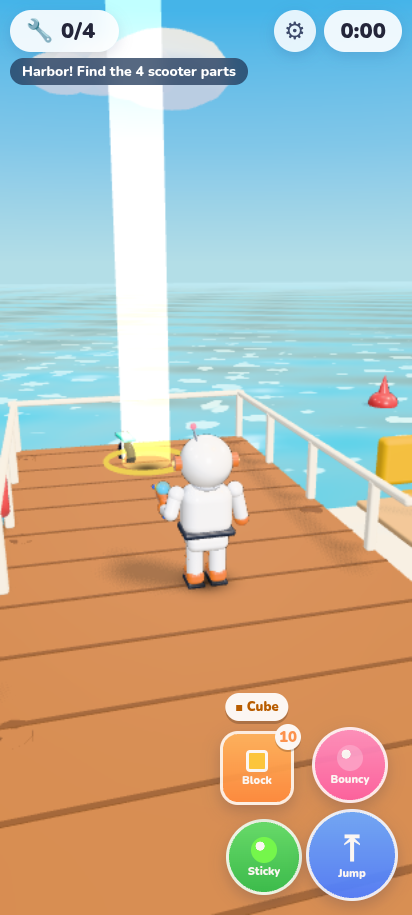
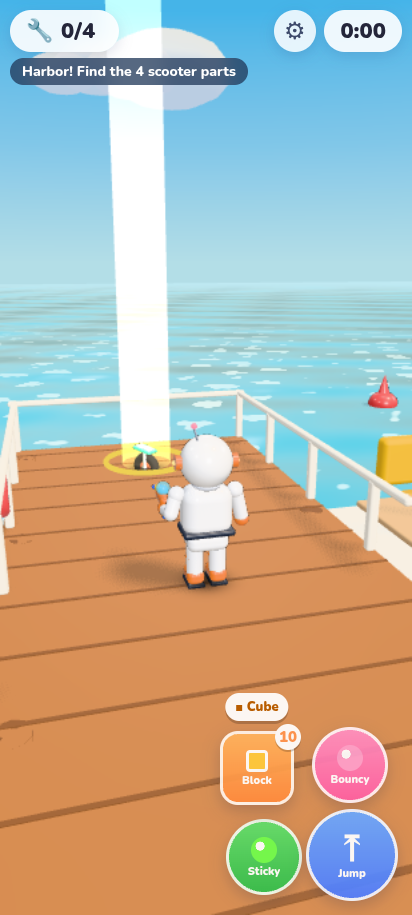
Fix race-ramp launch and L2 causeway hidden under harbor sea; tower camera blockers; round13 e2e with eight r13 shots

diff --git a/src/render/view.ts b/src/render/view.ts
@@ -123,6 +123,8 @@ export class GameView {
   private tmpE = new THREE.Euler();
   /** red bandanas worn by race hooligans (created on first use) */
   private bandanas = new Map<number, THREE.Object3D>();
+  /** harbor-area sea: it reaches over the start of the coastal causeway, so the race's own sea replaces it */
+  private harborSea: THREE.Mesh | null = null;
   /** race stars: one spinning InstancedMesh for the whole course */
   private stars: THREE.InstancedMesh | null = null;
   private starList: Star[] = [];
@@ -174,6 +176,7 @@ export class GameView {
     if (state.world.theme === 'harbor') {
       const harbor = buildHarbor(state.world);
       this.scene.add(harbor.root);
+      this.harborSea = harbor.water;
       blockers = harbor.cameraBlockers;
     } else {
       const city = buildCity(state.world);
@@ -192,7 +195,14 @@ export class GameView {
       this.spray = city.root.getObjectByName('spray');
       this.windowGlow = buildWindowGlow();
       this.scene.add(this.windowGlow);
-      blockers = city.cameraBlockers;
+      // Tower facade above the glass lobby and the mid floor's ceiling: keep the camera inside on the flashlight floor.
+      const T = 3.5, top = TOWER.roof, x0 = TOWER.x - 4.05, x1 = TOWER.x + 4.05, z0 = TOWER.z - 4.05, z1 = TOWER.z + 4.05;
+      blockers = [...city.cameraBlockers,
+        { minX: x0 - 0.1, maxX: x0 + 0.1, minY: T, maxY: top, minZ: z0, maxZ: z1 },
+        { minX: x1 - 0.1, maxX: x1 + 0.1, minY: T, maxY: top, minZ: z0, maxZ: z1 },
+        { minX: x0, maxX: x1, minY: T, maxY: top, minZ: z0 - 0.1, maxZ: z0 + 0.1 },
+        { minX: x0, maxX: x1, minY: T, maxY: top, minZ: z1 - 0.1, maxZ: z1 + 0.1 },
+        { minX: x0, maxX: x1, minY: TOWER.mid + 1.88, maxY: TOWER.mid + 2.2, minZ: z0, maxZ: z1 }];
     }
     this.scene.updateMatrixWorld(true);
     this.col = new Collider([...state.world.solids, ...blockers]);
@@ -224,7 +234,9 @@ export class GameView {
       const holder = new THREE.Group();
       const model = buildPart(pk.vehicle, pk.part);
       const spinner = new THREE.Group();
-      model.position.y = -0.5;
+      // parts are modelled in vehicle space: spin each one about its own centre
+      const centre = new THREE.Box3().setFromObject(model.children[0] ?? model).getCenter(new THREE.Vector3());
+      model.position.set(-centre.x, -0.5, -centre.z);
       spinner.add(model);
       spinner.scale.setScalar(1.3);
       // glowing ring so parts read as collectibles
@@ -376,7 +388,7 @@ export class GameView {
     else if (dy < -Math.PI) dy += Math.PI * 2;
     g.position.set(path[a] + (path[b] - path[a]) * f, path[a + 1] + (path[b + 1] - path[a + 1]) * f, path[a + 2] + (path[b + 2] - path[a + 2]) * f);
     g.rotation.y = path[a + 3] + dy * f;
-    (g.material as THREE.MeshBasicMaterial).opacity = 0.34 + Math.sin(t * 5) * 0.06;
+    (g.material as THREE.MeshBasicMaterial).opacity = 0.48 + Math.sin(t * 5) * 0.08;
   }
 
   /** Free GPU buffers (shared cached geometries are re-uploaded automatically if reused). */
@@ -423,6 +435,7 @@ export class GameView {
       this.gateArrow.rotation.y = t * 1.7;
       this.gateArchMaterial.emissiveIntensity = 0.9 + Math.sin(t * 3) * 0.3;
     }
+    if (this.harborSea) this.harborSea.visible = state.race.phase !== 'racing';
     this.syncGhostBike(state, t);
     this.syncRings(state, t);
     if (this.stars) {
@@ -739,7 +752,7 @@ function buildGhostBike(): THREE.Mesh {
   ];
   const g = mergeGeometries(parts.map((p) => p.toNonIndexed()))!;
   parts.forEach((p) => p.dispose());
-  const m = new THREE.Mesh(g, new THREE.MeshBasicMaterial({ color: 0x9fe8ff, transparent: true, opacity: 0.38, depthWrite: false, fog: false }));
+  const m = new THREE.Mesh(g, new THREE.MeshBasicMaterial({ color: 0x7ff0ff, transparent: true, opacity: 0.5, depthWrite: false, fog: false }));
   m.name = 'ghost-bike';
   m.renderOrder = 3;
   return m;

diff --git a/src/ui/i18n.ts b/src/ui/i18n.ts
@@ -78,7 +78,7 @@ const STRINGS = {
     hintMount: 'Hop on your pit bike!',
     hintGate: 'Ride through the green gate!',
     hintRide: 'Ride! Bounce off a pink slime pad for a trick!',
-    hintLight: 'Gate locked: too dark to race! Find the flashlight (tower elevator?)',
+    hintLight: 'Gate locked, too dark! Find the flashlight (tower lift?)',
     headlightOn: 'Headlight on! The gate is open',
     hintPhrase: 'They say someone lost a flashlight upstairs…',
     glued: 'Glued!',
@@ -192,7 +192,7 @@ const STRINGS = {
     hintMount: 'Садись на питбайк!',
     hintGate: 'Езжай через зелёные ворота!',
     hintRide: 'Катайся! Прыгни с розовой слизи — будет трюк!',
-    hintLight: 'Ворота закрыты: без фары темно! Найди фонарик (лифт в башне?)',
+    hintLight: 'Ворота закрыты, темно! Найди фонарик (лифт в башне?)',
     headlightOn: 'Фара горит! Ворота открыты',
     hintPhrase: 'Говорят, наверху кто-то фонарик потерял…',
     glued: 'Приклеен!',
@@ -274,7 +274,7 @@ const LEVEL1: Record<'pl' | 'lt' | 'de', Partial<Strings>> = {
     got: 'Mam:', delivered: 'Części', built: 'Motor gotowy!', ride: 'Jedź', exit: 'Zsiądź',
     hintFind: 'Znajdź świecące części motoru!', hintBring: 'Zanieś części do garażu!', hintMount: 'Wskakuj na motor!',
     hintRide: 'Jedź! Odbij się od różowego glutu i zrób trik!',
-    hintLight: 'Brama zamknięta: za ciemno na wyścig! Znajdź latarkę (winda w wieżowcu?)',
+    hintLight: 'Brama zamknięta, ciemno! Znajdź latarkę (winda w wieży?)',
     headlightOn: 'Reflektor świeci! Brama otwarta',
     hintPhrase: 'Podobno ktoś na górze zgubił latarkę…',
   },
@@ -284,7 +284,7 @@ const LEVEL1: Record<'pl' | 'lt' | 'de', Partial<Strings>> = {
     got: 'Turiu:', delivered: 'Dalys', built: 'Motociklas paruoštas!', ride: 'Važiuoti', exit: 'Nulipti',
     hintFind: 'Surask šviečiančias motociklo dalis!', hintBring: 'Nešk dalis į garažą!', hintMount: 'Sėsk ant motociklo!',
     hintRide: 'Važiuok! Atšok nuo rožinės gleivės ir padaryk triuką!',
-    hintLight: 'Vartai užrakinti: per tamsu lenktynėms! Surask žibintuvėlį (bokšto liftas?)',
+    hintLight: 'Vartai uždaryti, tamsu! Surask žibintuvėlį (bokšto liftas?)',
     headlightOn: 'Žibintas dega! Vartai atviri',
     hintPhrase: 'Sako, viršuje kažkas pametė žibintuvėlį…',
   },
@@ -294,7 +294,7 @@ const LEVEL1: Record<'pl' | 'lt' | 'de', Partial<Strings>> = {
     got: 'Hab ich:', delivered: 'Teile', built: 'Pitbike fertig!', ride: 'Fahren', exit: 'Absteigen',
     hintFind: 'Finde die leuchtenden Bike-Teile!', hintBring: 'Bring die Teile zur Garage!', hintMount: 'Steig auf dein Pitbike!',
     hintRide: 'Fahr los! Spring von einem rosa Schleimkissen für einen Trick!',
-    hintLight: 'Tor zu: zu dunkel fürs Rennen! Finde die Taschenlampe (Aufzug im Turm?)',
+    hintLight: 'Tor zu, zu dunkel! Finde die Taschenlampe (Turm-Aufzug?)',
     headlightOn: 'Scheinwerfer an! Das Tor ist offen',
     hintPhrase: 'Man sagt, oben hat jemand eine Taschenlampe verloren…',
   },

diff --git a/src/sim/track.ts b/src/sim/track.ts
@@ -93,13 +93,13 @@ export function courseRings(c: Course): Ring[] {
 // Level 1: northbound city-to-park-to-market road, then a second park/boardwalk lap of S-bends.
 export const COURSE1 = makeCourse(
   [[80, 15], [80, -55], [98, -120], [80, -190], [62, -260], [80, -330], [98, -400], [80, -470], [80, -535], [62, -600], [80, -670], [98, -740], [80, -810], [80, -840]],
-  { jumps: [45, 145, 245, 350, 455, 575, 690, 790], optionalJump: 350, gap: { start: 358, end: 363 }, rampHeight: 2.7, rampLength: 8, rail: 6.1, ringLift: 0.4 },
+  { jumps: [45, 145, 245, 350, 455, 575, 690, 790], optionalJump: 350, gap: { start: 358, end: 363 }, rampHeight: 2.7, rampLength: 8, rail: 6.1, ringLift: 1.15 },
 );
 
 // Level 2: coastal road, pier boardwalk with an optional gap, a loop round the lighthouse, then the cliff road home. Smaller ramps for the scooter.
 export const COURSE2 = makeCourse(
   [[120, 10], [120, -40], [135, -90], [120, -140], [135, -190], [135, -290], [135, -330], [150, -356], [180, -356], [195, -330], [205, -300], [205, -250], [190, -190], [205, -130], [205, -60], [190, -10]],
-  { jumps: [20, 120, 225, 255, 480, 575, 660, 730], optionalJump: 255, gap: { start: 262, end: 267 }, rampHeight: 1.8, rampLength: 7, rail: 6.1, ringLift: 0.55 },
+  { jumps: [20, 120, 225, 255, 480, 575, 660, 730], optionalJump: 255, gap: { start: 262, end: 267 }, rampHeight: 1.8, rampLength: 7, rail: 6.1, ringLift: 0.9 },
 );
 /** progress where the boardwalk starts and ends, and the lighthouse the loop goes round */
 export const COURSE2_SECTIONS = { boardwalk: [206.6, 306.6], lighthouse: { x: 167, z: -322 }, cliffRoad: 535 };

diff --git a/src/sim/mission.ts b/src/sim/mission.ts
@@ -235,8 +235,9 @@ export function updateVehicle(state: GameState, v: Vehicle, inp: InputCommand | 
     const ramp = c.jumps.find(d => road.progress >= d && road.progress <= d + c.rampLength);
     if (ramp !== undefined && (ramp !== c.optionalJump || lane < -0.5)) {
       const slope = c.rampHeight / c.rampLength, height = (road.progress - ramp) * slope;
-      if (v.pos.y <= height + 0.3 && v.vel.y <= 0) {
-        v.pos.y = height; v.grounded = true; v.lastClimb = Math.abs(v.speed) * slope;
+      // ride the surface (also when the generic slope launch tried to hop us off it mid-ramp)
+      if (v.pos.y <= height + 0.3 && (v.vel.y <= 0 || v.pos.y < height)) {
+        v.pos.y = height; v.vel.y = 0; v.grounded = true; v.lastClimb = Math.abs(v.speed) * slope;
         if (road.progress > ramp + c.rampLength - 0.3) { v.vel.y = (Math.abs(v.speed) * slope + 2) * def.launch; v.grounded = false; }
       }
     }

diff --git a/src/sim/levels.ts b/src/sim/levels.ts
@@ -25,10 +25,10 @@ export function medalFor(r: RaceDef, time: number): Medal {
   return time <= r.medals.gold ? 'gold' : time <= r.medals.silver ? 'silver' : 'bronze';
 }
 /** Gold: ~85% of stock top speed over the course and every main-ramp fire ring (+3 s each);
- *  silver: ~75% of top speed and half the ring bonus. Any finish is bronze. */
+ *  silver: ~80% of top speed and three quarters of the ring bonus. Any finish is bronze. */
 function medals(course: Course, topSpeed: number) {
   const rings = 3 * (course.jumps.length - (course.optionalJump !== null ? 1 : 0));
-  return { gold: Math.ceil(course.length / (topSpeed * 0.85) - rings), silver: Math.ceil(course.length / (topSpeed * 0.75) - rings / 2) };
+  return { gold: Math.ceil(course.length / (topSpeed * 0.85) - rings), silver: Math.ceil(course.length / (topSpeed * 0.8) - rings * 0.75) };
 }
 
 export interface LevelDef {

diff --git a/PROGRESS.md b/PROGRESS.md
@@ -153,3 +153,29 @@ Tests:
   - Rendering is one emissive torus InstancedMesh with a flickering emissive intensity, plus one additive InstancedMesh of 12 flame tongues per ring, each flickering on its own beat. That is 2 draw calls, with reused matrices. Passed rings vanish.
   - Medals now count the expected ring bonus: gold = length / (0.85 · top) − 3 s per main ring, silver = length / (0.75 · top) − half that. L1 is 59/80 s, L2 44/63 s. The 75% bot gets bronze on L1 (94.8 s) and silver on L2 (53 s).
   - Build, sim and sweep pass.
+- R13.9 (fixes from the Round 7 screenshot pass):
+  - **Race ramps (pre-existing bug):** the generic "launch off slopes" code fired mid-ramp, so bikes bunny-hopped up race ramps, sank below the surface and left the lip with almost no upward speed. Race ramps now snap a vehicle that is below their surface and zero its vertical speed, so jumps launch properly from the lip (L1 vy ≈ 6 m/s).
+  - Ring lifts were re-tuned to the real trajectories (L1 +1.15 m, L2 +0.9 m over the ramp top). Bots at 60–105% speed pass every main ring within ±0.1 m and collect 7/8 high stars.
+  - Silver is now length / (0.8 · top) − ¾ of the ring bonus: L1 59/69 s, L2 44/53 s. The bots with traffic get bronze on L1 (91.6 s) and about silver on L2 (52–56 s).
+  - **Level-2 race road (pre-existing since R6):** the harbor-area sea plane (y 0.02) covered the first ~200 m of the coastal causeway (y 0.015), so the scooter appeared to ride on water. The harbor sea now hides while racing; the race sea covers the coast.
+  - **Tower mid floor:** camera blockers for the facade walls above the lobby and the mid-floor ceiling keep the camera inside the floor, so the flashlight floor is playable and visible.
+  - Pickup models now spin about their own centre instead of orbiting the bike-space origin.
+  - The locked-gate hint is shortened to two lines in all five languages. The sweep now checks the locked-gate HUD (long hint + "Pit bike ready!" banner) at all four viewports.
+  - The ghost is brighter.
+- R13 validation:
+  - New `tests/round13.e2e.mjs` (part of `npm run test:e2e`):
+    - city budget: 383 calls / 587k tris at the seeded spawn
+    - hint pyshka's flashlight line, window glow, flashlight floor
+    - five-part bike with the gate locked and the localized hint, then headlight on → gate open
+    - a real full-course level-1 drive to the finish: medal, "New record!", stars chip, best time and ghost saved in localStorage
+    - next race with the ghost ahead
+    - stars and rings (race view 292 calls)
+    - TRICK backflip popup with a phrase
+    - hooligan hit "+1s Gotcha!"
+    - level-2 race view (208 calls)
+    - no console errors
+  - Race views along both whole courses measured 175–294 calls.
+  - Old tests updated for the new rules: e2e expects 6 reachable parts; the round3 driver allows the longer course.
+  - Screenshots shots/r13-{flashlight-floor,gate-locked,race-stars-rings,trick,ghost,hooligan-hit,finish-medal,l2-race}.png at 412×915, all visually inspected.
+  - Probe scripts: `tests/_perf13.mjs` (draw calls along both courses), `tests/_look13.mjs` (race view shot at a distance), `tests/_rings.mjs` (ring/star heights vs bot trajectories).
+  - No push.
